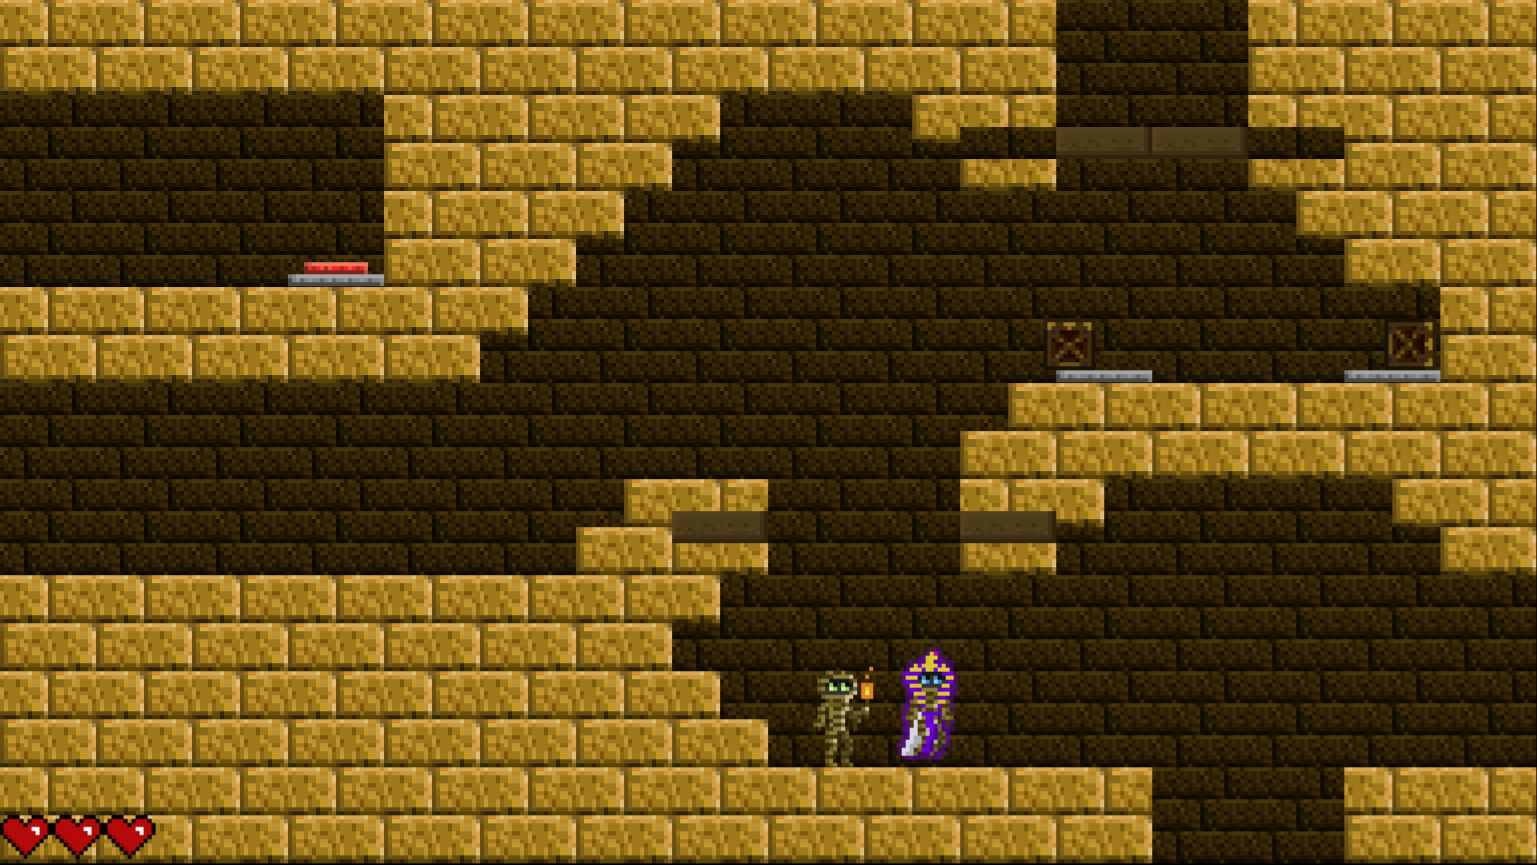
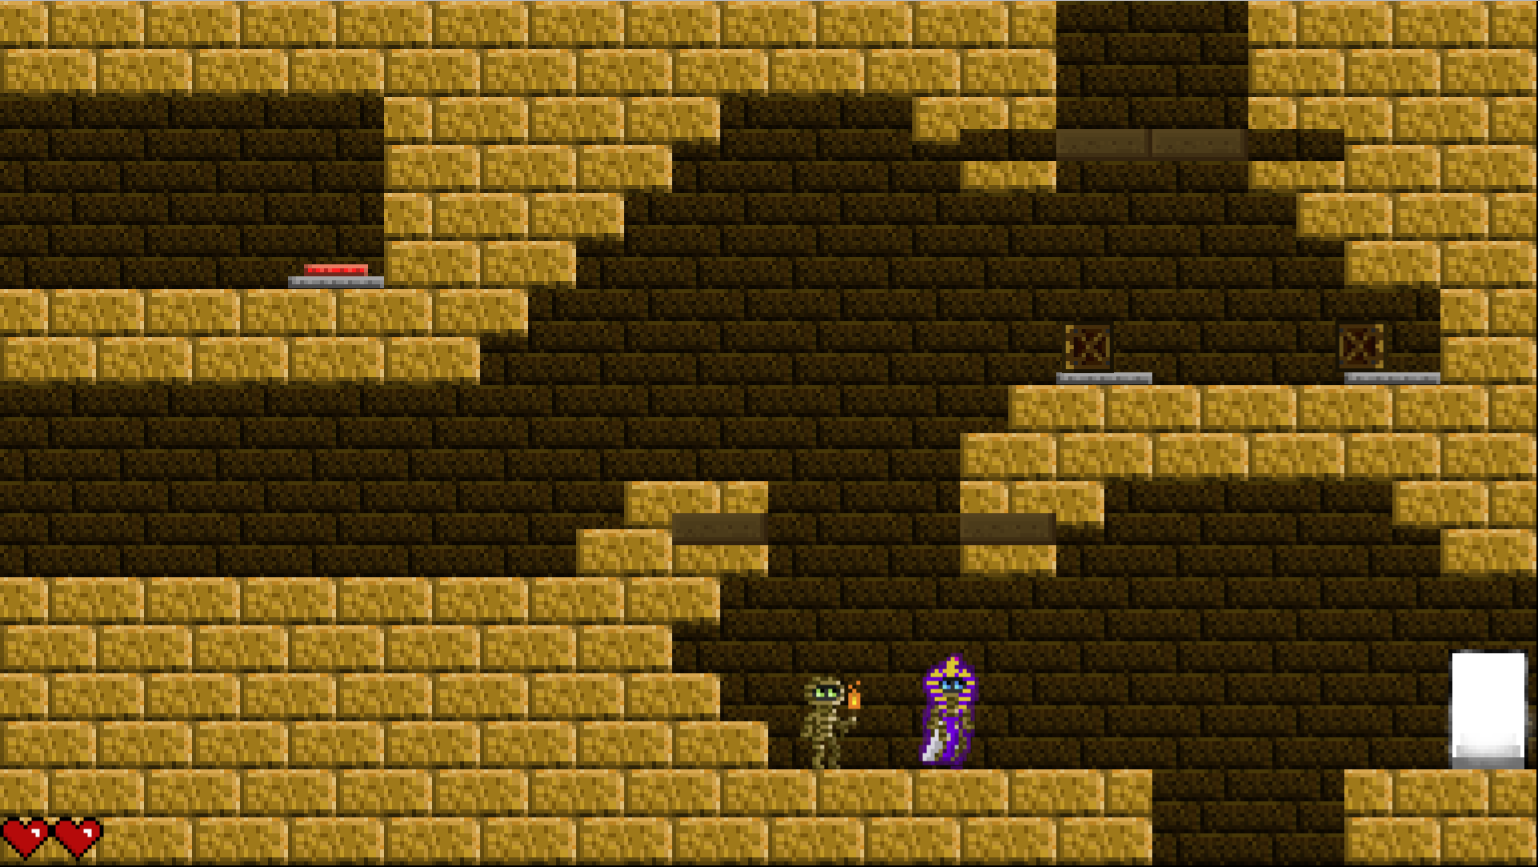
Actualización Mapa Salida
Actualización mapa Tiled, y capturas

diff --git a/JS/offline.js b/JS/offline.js
@@ -64,6 +64,7 @@ offline.create = function(){
 
     //Extraemos las capas del TILEMAP
     const bg= map.createDynamicLayer("Background", tiles, 0,0);
+    const exit = map.createDynamicLayer("Exit", tiles, 0,0)
 	const layer = map.createDynamicLayer("Foreground",tiles,0,0);
 
     //Hacemos la capa LAYER (FOREGROUND) colisionable

diff --git a/README.md b/README.md
@@ -76,7 +76,7 @@ Ahora es el faraón el que no puede avanzar, la momia tendrá que saltar un aguj
 ![7](https://user-images.githubusercontent.com/18311855/48101255-acc49880-e226-11e8-86e5-2b862c093dfc.PNG)  
  Ahora ambos pueden avanzar, pero se encuentran con dos botones, los cuales tendrán que ser pulsados a la vez. Para poder hacerlo hay dos cajas en la cámara, aunque una de ellas está encerrada y tendrá que ser liberada. Para ello se necesita subir al pasillo superior con la ayuda de la telquinesis del faraón, allí se encontrará un botón que abre las compuertas de la caja y esta cae sobre uno de los botones y demuestra que pueden ser pulsados por ellas.
 ![8](https://user-images.githubusercontent.com/18311855/48101259-adf5c580-e226-11e8-8dff-91b8a4c5000f.PNG)  
-![9](https://user-images.githubusercontent.com/18311855/48101261-af26f280-e226-11e8-9930-56d76abee1fe.PNG)  
+![9](https://user-images.githubusercontent.com/18311855/48102043-75a3b680-e229-11e8-8baa-5f6574f5cb54.PNG)  
 Cuando se colocan las dos cajas sobre los botones los dos personajes son libres de avanzar, saltar un agujero y salir de la pirámide.
-![10](https://user-images.githubusercontent.com/18311855/48101263-afbf8900-e226-11e8-88c0-5743e7da0484.PNG)  
-![11](https://user-images.githubusercontent.com/18311855/48101265-b0f0b600-e226-11e8-8038-f52b2f0de2d4.PNG)  
+![10](https://user-images.githubusercontent.com/18311855/48102044-75a3b680-e229-11e8-9a62-dc0f23a21143.PNG)  
+![11](https://user-images.githubusercontent.com/18311855/48102045-763c4d00-e229-11e8-8434-43e0a3160759.PNG)  
